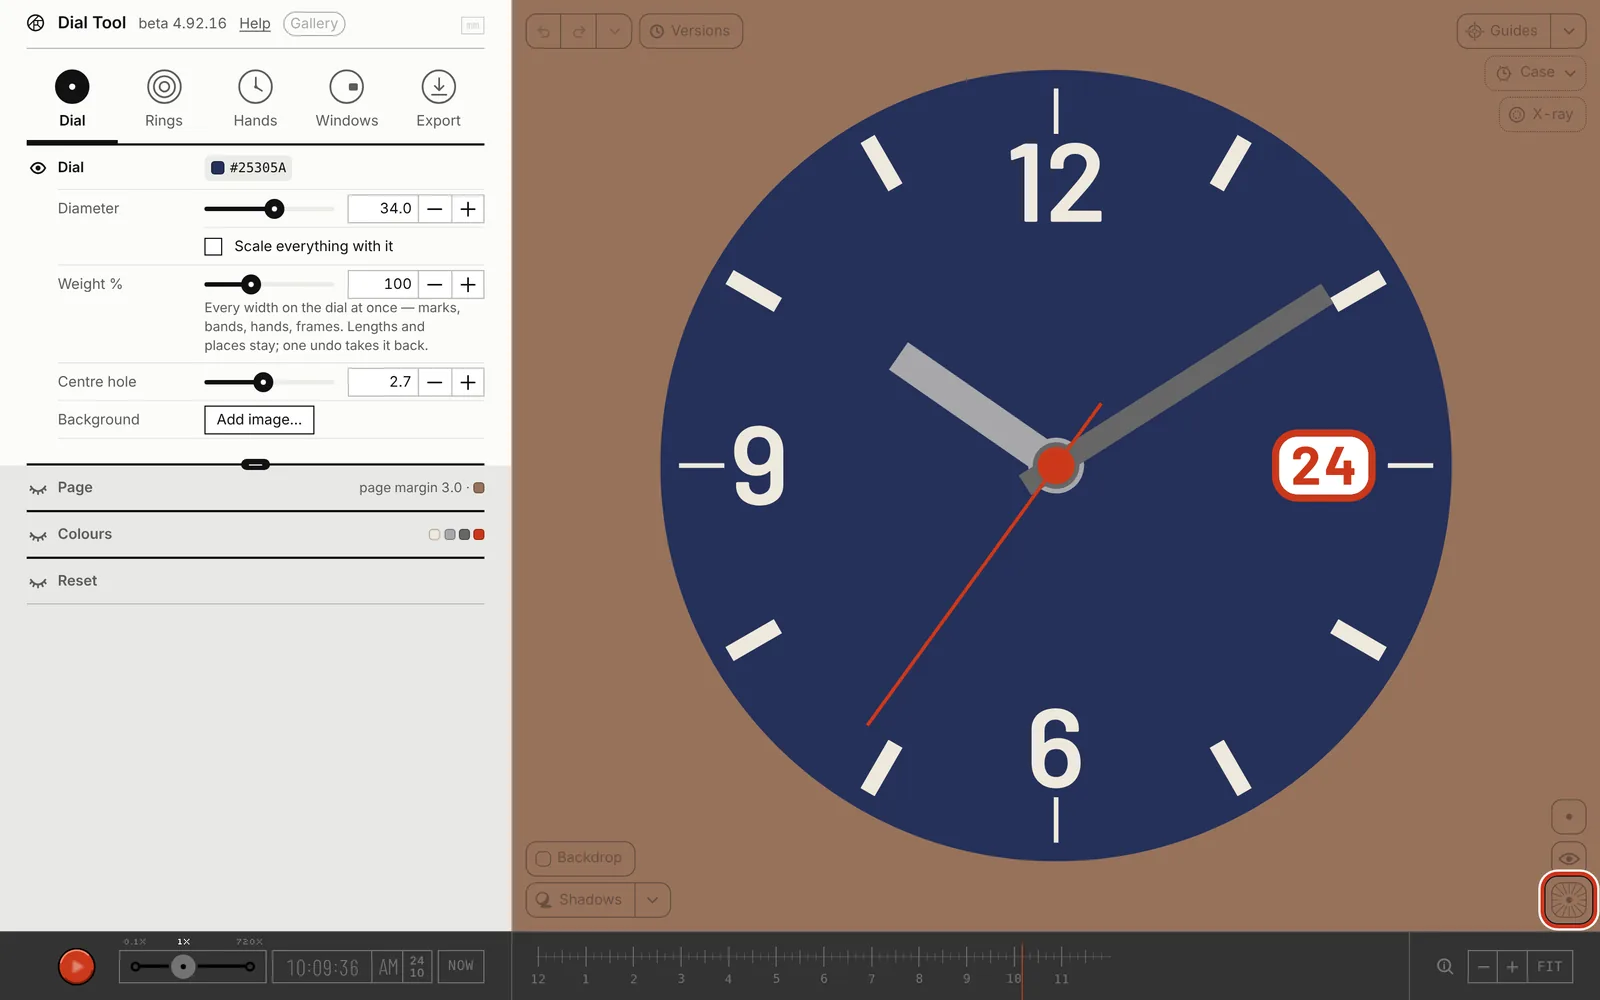
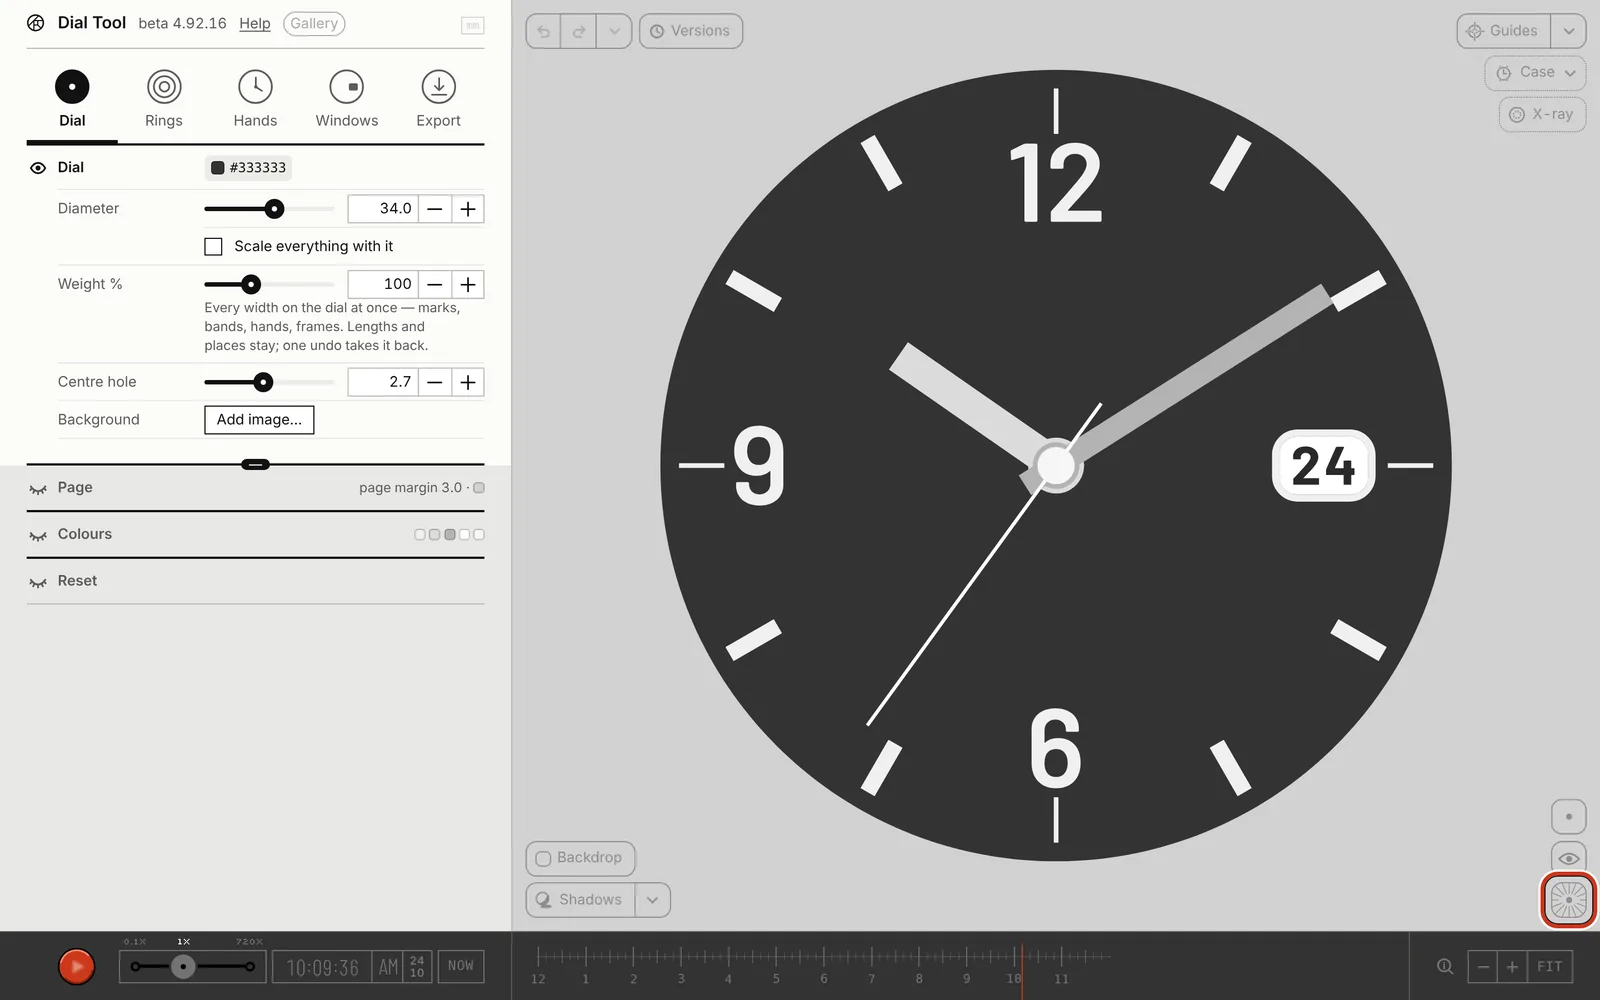
Help page from dev 4fa6158

diff --git a/help/index.html b/help/index.html
@@ -8,9 +8,9 @@
 <title>Dial Tool · Help</title>
 <meta name="description" content="Every pane and control of Dial Tool, in one sentence each.">
 <style>
-@font-face{font-family:Inter;font-weight:400;font-display:swap;src:url(fonts/Inter-Regular.woff2?v=79df736) format("woff2")}
-@font-face{font-family:Inter;font-weight:500;font-display:swap;src:url(fonts/Inter-Medium.woff2?v=79df736) format("woff2")}
-@font-face{font-family:Inter;font-weight:600 700;font-display:swap;src:url(fonts/Inter-SemiBold.woff2?v=79df736) format("woff2")}
+@font-face{font-family:Inter;font-weight:400;font-display:swap;src:url(fonts/Inter-Regular.woff2?v=4fa6158) format("woff2")}
+@font-face{font-family:Inter;font-weight:500;font-display:swap;src:url(fonts/Inter-Medium.woff2?v=4fa6158) format("woff2")}
+@font-face{font-family:Inter;font-weight:600 700;font-display:swap;src:url(fonts/Inter-SemiBold.woff2?v=4fa6158) format("woff2")}
 :root{--bug:#c8331b;--map-w:211px;--map-h:132px;--map-frame:7px;--map-ring:5px;--paper:#f3f1ec;--ink:#1b1a18;--mute:#77736b;--line:#d8d4cb;--gut:16px}
 *{box-sizing:border-box}html{scroll-padding-top:96px;scroll-behavior:smooth}
 @media (prefers-reduced-motion:reduce){html{scroll-behavior:auto}}
@@ -78,8 +78,8 @@ h3.sg{margin:22px 0 4px}
 h2:has(.map)::after{right:calc(var(--map-ring) + var(--map-frame) * 2 + var(--map-w))}
 .map::before{content:"";position:absolute;inset:calc(var(--map-ring) * -1);background:var(--line);border-radius:2px;z-index:0}
 .map svg{position:relative;z-index:2;width:var(--map-w);height:var(--map-h);border:var(--map-frame) solid var(--ink);box-sizing:content-box}
-.map .backdrop{fill:#9a7458}.map .panel{fill:#f7f6f3}.map .pane{fill:#ecebe7}.map .tab{fill:none;stroke:#1b1a18;stroke-width:.8}.map .bar{fill:#2e2d2b}
-.map .dial{fill:#25305a}.map .ticks{stroke:#efe9dc;stroke-width:1.6}.map .hands{stroke:#b8b8b8;stroke-width:2.6;stroke-linecap:round}.map .cap{fill:#d9d9d9}
+.map .backdrop{fill:#d1d1d1}.map .panel{fill:#f7f6f3}.map .pane{fill:#ecebe7}.map .tab{fill:none;stroke:#1b1a18;stroke-width:.8}.map .bar{fill:#2e2d2b}
+.map .dial{fill:#333}.map .ticks{stroke:#f0f0f0;stroke-width:1.6}.map .hands{stroke:#dbdbdb;stroke-width:2.6;stroke-linecap:round}.map .cap{fill:#f5f5f5}
 .map .b1{fill:none;stroke:#111;stroke-width:1.3;vector-effect:non-scaling-stroke}.map .b2{fill:none;stroke:#d0341c;stroke-width:1.3;vector-effect:non-scaling-stroke}.map .b3{fill:none;stroke:#fff;stroke-width:1.3;vector-effect:non-scaling-stroke}
 .map{cursor:zoom-in}.map .soft{fill:#000;opacity:.06}
 .map .frame{display:none}
@@ -126,7 +126,7 @@ h2:has(.map) + .lead + *{clear:both}
 <h2 id="screen"><span class="map" data-map="screen" title="Where on the screen"><svg viewBox="0 0 160 100" aria-hidden="true"><rect width="160" height="100" class="backdrop"/><rect width="51.2" height="93.0" class="panel"/><rect y="14.4" width="51.2" height="31.6" class="pane"/><circle cx="7.3" cy="8.6" r="2.4" class="tab"/><circle cx="16.45" cy="8.6" r="2.4" class="tab"/><circle cx="25.6" cy="8.6" r="2.4" class="tab"/><circle cx="34.75" cy="8.6" r="2.4" class="tab"/><circle cx="43.9" cy="8.6" r="2.4" class="tab"/><rect y="93.0" width="160" height="7.0" class="bar"/><circle cx="105.6" cy="46.6" r="39.5" class="dial"/><g class="ticks"><path d="M105.6 14.1L105.6 9.6"/><path d="M121.9 18.5L124.1 14.6"/><path d="M133.7 30.4L137.6 28.1"/><path d="M138.1 46.6L142.6 46.6"/><path d="M133.7 62.9L137.6 65.1"/><path d="M121.8 74.7L124.1 78.6"/><path d="M105.6 79.1L105.6 83.6"/><path d="M89.3 74.7L87.1 78.6"/><path d="M77.5 62.8L73.6 65.1"/><path d="M73.1 46.6L68.6 46.6"/><path d="M77.5 30.3L73.6 28.1"/><path d="M89.4 18.5L87.1 14.6"/></g><path d="M105.6 46.6L89.6 36.6M105.6 46.6L129.6 32.6" class="hands"/><circle cx="105.6" cy="46.6" r="2.2" class="cap"/><rect x=".5" y=".5" width="159" height="99" rx="3" class="frame"/></svg></span>The screen</h2>
 <p class="lead">The window's eight parts, by number.</p>
 <figure class="shot">
-  <img src="img/screen.webp?v=79df736" width="1440" height="900" alt="The Dial Tool window: the panel with its tabs on the left, the dial in the preview on the right, buttons in the preview's corners, the time bar along the bottom.">
+  <img src="img/screen.webp?v=4fa6158" width="1440" height="900" alt="The Dial Tool window: the panel with its tabs on the left, the dial in the preview on the right, buttons in the preview's corners, the time bar along the bottom.">
   <i style="left:23.5%;top:2.4%">①</i><i style="left:30.5%;top:9.5%">②</i><i style="left:80%;top:20%">③</i><i style="left:47.5%;top:3.1%">④</i>
   <i style="left:89.5%;top:3.1%">⑤</i><i style="left:41.5%;top:86%">⑥</i><i style="left:95%;top:89%">⑦</i><i style="left:33.5%;top:96.5%">⑧</i>
 </figure>
@@ -218,7 +218,7 @@ h2:has(.map) + .lead + *{clear:both}
 <h3>Window</h3>
 <dl>
   <dt>Window at</dt><dd>3 · 6 · 9 · 12 on the heading line, or ··· for any place or time, such as 2:15.</dd>
-  <dt>Complication</dt><dd>Big date for two discs, the tens and the units.<span class="row"><span><i class="ic" data-ic="window-date"><svg style="aspect-ratio:30/21" viewBox="0 0 30 21" aria-hidden="true" fill="none" stroke="currentColor" stroke-width="1.5" stroke-linecap="round" stroke-linejoin="round"><path d="M6.75 2.25H23.25M24.75 3.75V17.25M23.25 18.75H6.75M5.25 17.25V3.75"></path><path d="M23.25 2.25A1.5 1.5 0 0 1 24.75 3.75M24.75 17.25A1.5 1.5 0 0 1 23.25 18.75M6.75 18.75A1.5 1.5 0 0 1 5.25 17.25M5.25 3.75A1.5 1.5 0 0 1 6.75 2.25" stroke-width="1.625"></path><path d="M12.75 8L15.25 6V15" stroke-width="1.625"></path></svg></i>Date</span><span><i class="ic" data-ic="window-day"><svg style="aspect-ratio:30/21" viewBox="0 0 30 21" aria-hidden="true" fill="none" stroke="currentColor" stroke-width="1.5" stroke-linecap="round" stroke-linejoin="round"><path d="M3.75 4.25H26.25M27.75 5.75V15.25M26.25 16.75H3.75M2.25 15.25V5.75"></path><path d="M26.25 4.25A1.5 1.5 0 0 1 27.75 5.75M27.75 15.25A1.5 1.5 0 0 1 26.25 16.75M3.75 16.75A1.5 1.5 0 0 1 2.25 15.25M2.25 5.75A1.5 1.5 0 0 1 3.75 4.25" stroke-width="1.625"></path><path d="M10.75 14V7L15 12L19.25 7V14" stroke-width="1.5625"></path></svg></i>Day</span><span><i class="ic" data-ic="window-am-pm"><svg style="aspect-ratio:30/21" viewBox="0 0 30 21" aria-hidden="true" fill="none" stroke="currentColor" stroke-width="1.5" stroke-linecap="round" stroke-linejoin="round"><path d="M5.25 3.75H24.75M26.25 5.25V15.75M24.75 17.25H5.25M3.75 15.75V5.25"></path><path d="M24.75 3.75A1.5 1.5 0 0 1 26.25 5.25M26.25 15.75A1.5 1.5 0 0 1 24.75 17.25M5.25 17.25A1.5 1.5 0 0 1 3.75 15.75M3.75 5.25A1.5 1.5 0 0 1 5.25 3.75" stroke-width="1.625"></path><path d="M15 3.75H5.25A1.5 1.5 0 0 0 3.75 5.25V15.75A1.5 1.5 0 0 0 5.25 17.25H15Z" fill="currentColor" stroke="none"></path></svg></i>am · pm</span><span><i class="ic" data-ic="window-moon-phase"><svg style="aspect-ratio:30/21" viewBox="0 0 30 21" aria-hidden="true" fill="none" stroke="currentColor" stroke-width="1.5" stroke-linecap="round" stroke-linejoin="round"><path d="M15 1.25A9.25 9.25 0 0 0 15 19.75A11.75 11.75 0 0 1 15 1.25Z" fill="currentColor" stroke="none"></path><circle cx="15" cy="10.5" r="9.25"></circle></svg></i>Moon</span></span><img src="img/windows.webp?v=79df736" width="300" height="300" alt="A dial with four windows: the date at 12, the moon at 3, the day at 6, am · pm at 9."></dd>
+  <dt>Complication</dt><dd>Big date for two discs, the tens and the units.<span class="row"><span><i class="ic" data-ic="window-date"><svg style="aspect-ratio:30/21" viewBox="0 0 30 21" aria-hidden="true" fill="none" stroke="currentColor" stroke-width="1.5" stroke-linecap="round" stroke-linejoin="round"><path d="M6.75 2.25H23.25M24.75 3.75V17.25M23.25 18.75H6.75M5.25 17.25V3.75"></path><path d="M23.25 2.25A1.5 1.5 0 0 1 24.75 3.75M24.75 17.25A1.5 1.5 0 0 1 23.25 18.75M6.75 18.75A1.5 1.5 0 0 1 5.25 17.25M5.25 3.75A1.5 1.5 0 0 1 6.75 2.25" stroke-width="1.625"></path><path d="M12.75 8L15.25 6V15" stroke-width="1.625"></path></svg></i>Date</span><span><i class="ic" data-ic="window-day"><svg style="aspect-ratio:30/21" viewBox="0 0 30 21" aria-hidden="true" fill="none" stroke="currentColor" stroke-width="1.5" stroke-linecap="round" stroke-linejoin="round"><path d="M3.75 4.25H26.25M27.75 5.75V15.25M26.25 16.75H3.75M2.25 15.25V5.75"></path><path d="M26.25 4.25A1.5 1.5 0 0 1 27.75 5.75M27.75 15.25A1.5 1.5 0 0 1 26.25 16.75M3.75 16.75A1.5 1.5 0 0 1 2.25 15.25M2.25 5.75A1.5 1.5 0 0 1 3.75 4.25" stroke-width="1.625"></path><path d="M10.75 14V7L15 12L19.25 7V14" stroke-width="1.5625"></path></svg></i>Day</span><span><i class="ic" data-ic="window-am-pm"><svg style="aspect-ratio:30/21" viewBox="0 0 30 21" aria-hidden="true" fill="none" stroke="currentColor" stroke-width="1.5" stroke-linecap="round" stroke-linejoin="round"><path d="M5.25 3.75H24.75M26.25 5.25V15.75M24.75 17.25H5.25M3.75 15.75V5.25"></path><path d="M24.75 3.75A1.5 1.5 0 0 1 26.25 5.25M26.25 15.75A1.5 1.5 0 0 1 24.75 17.25M5.25 17.25A1.5 1.5 0 0 1 3.75 15.75M3.75 5.25A1.5 1.5 0 0 1 5.25 3.75" stroke-width="1.625"></path><path d="M15 3.75H5.25A1.5 1.5 0 0 0 3.75 5.25V15.75A1.5 1.5 0 0 0 5.25 17.25H15Z" fill="currentColor" stroke="none"></path></svg></i>am · pm</span><span><i class="ic" data-ic="window-moon-phase"><svg style="aspect-ratio:30/21" viewBox="0 0 30 21" aria-hidden="true" fill="none" stroke="currentColor" stroke-width="1.5" stroke-linecap="round" stroke-linejoin="round"><path d="M15 1.25A9.25 9.25 0 0 0 15 19.75A11.75 11.75 0 0 1 15 1.25Z" fill="currentColor" stroke="none"></path><circle cx="15" cy="10.5" r="9.25"></circle></svg></i>Moon</span></span><img src="img/windows.webp?v=4fa6158" width="300" height="300" alt="A dial with four windows: the date at 12, the moon at 3, the day at 6, am · pm at 9."></dd>
   <dt>Moon</dt><dd>Picture: Arch, Phase or Line; Moon age, days, when it doesn't follow the date (0 new, 14.8 full).</dd>
 </dl>
 <h3>Shape</h3>
